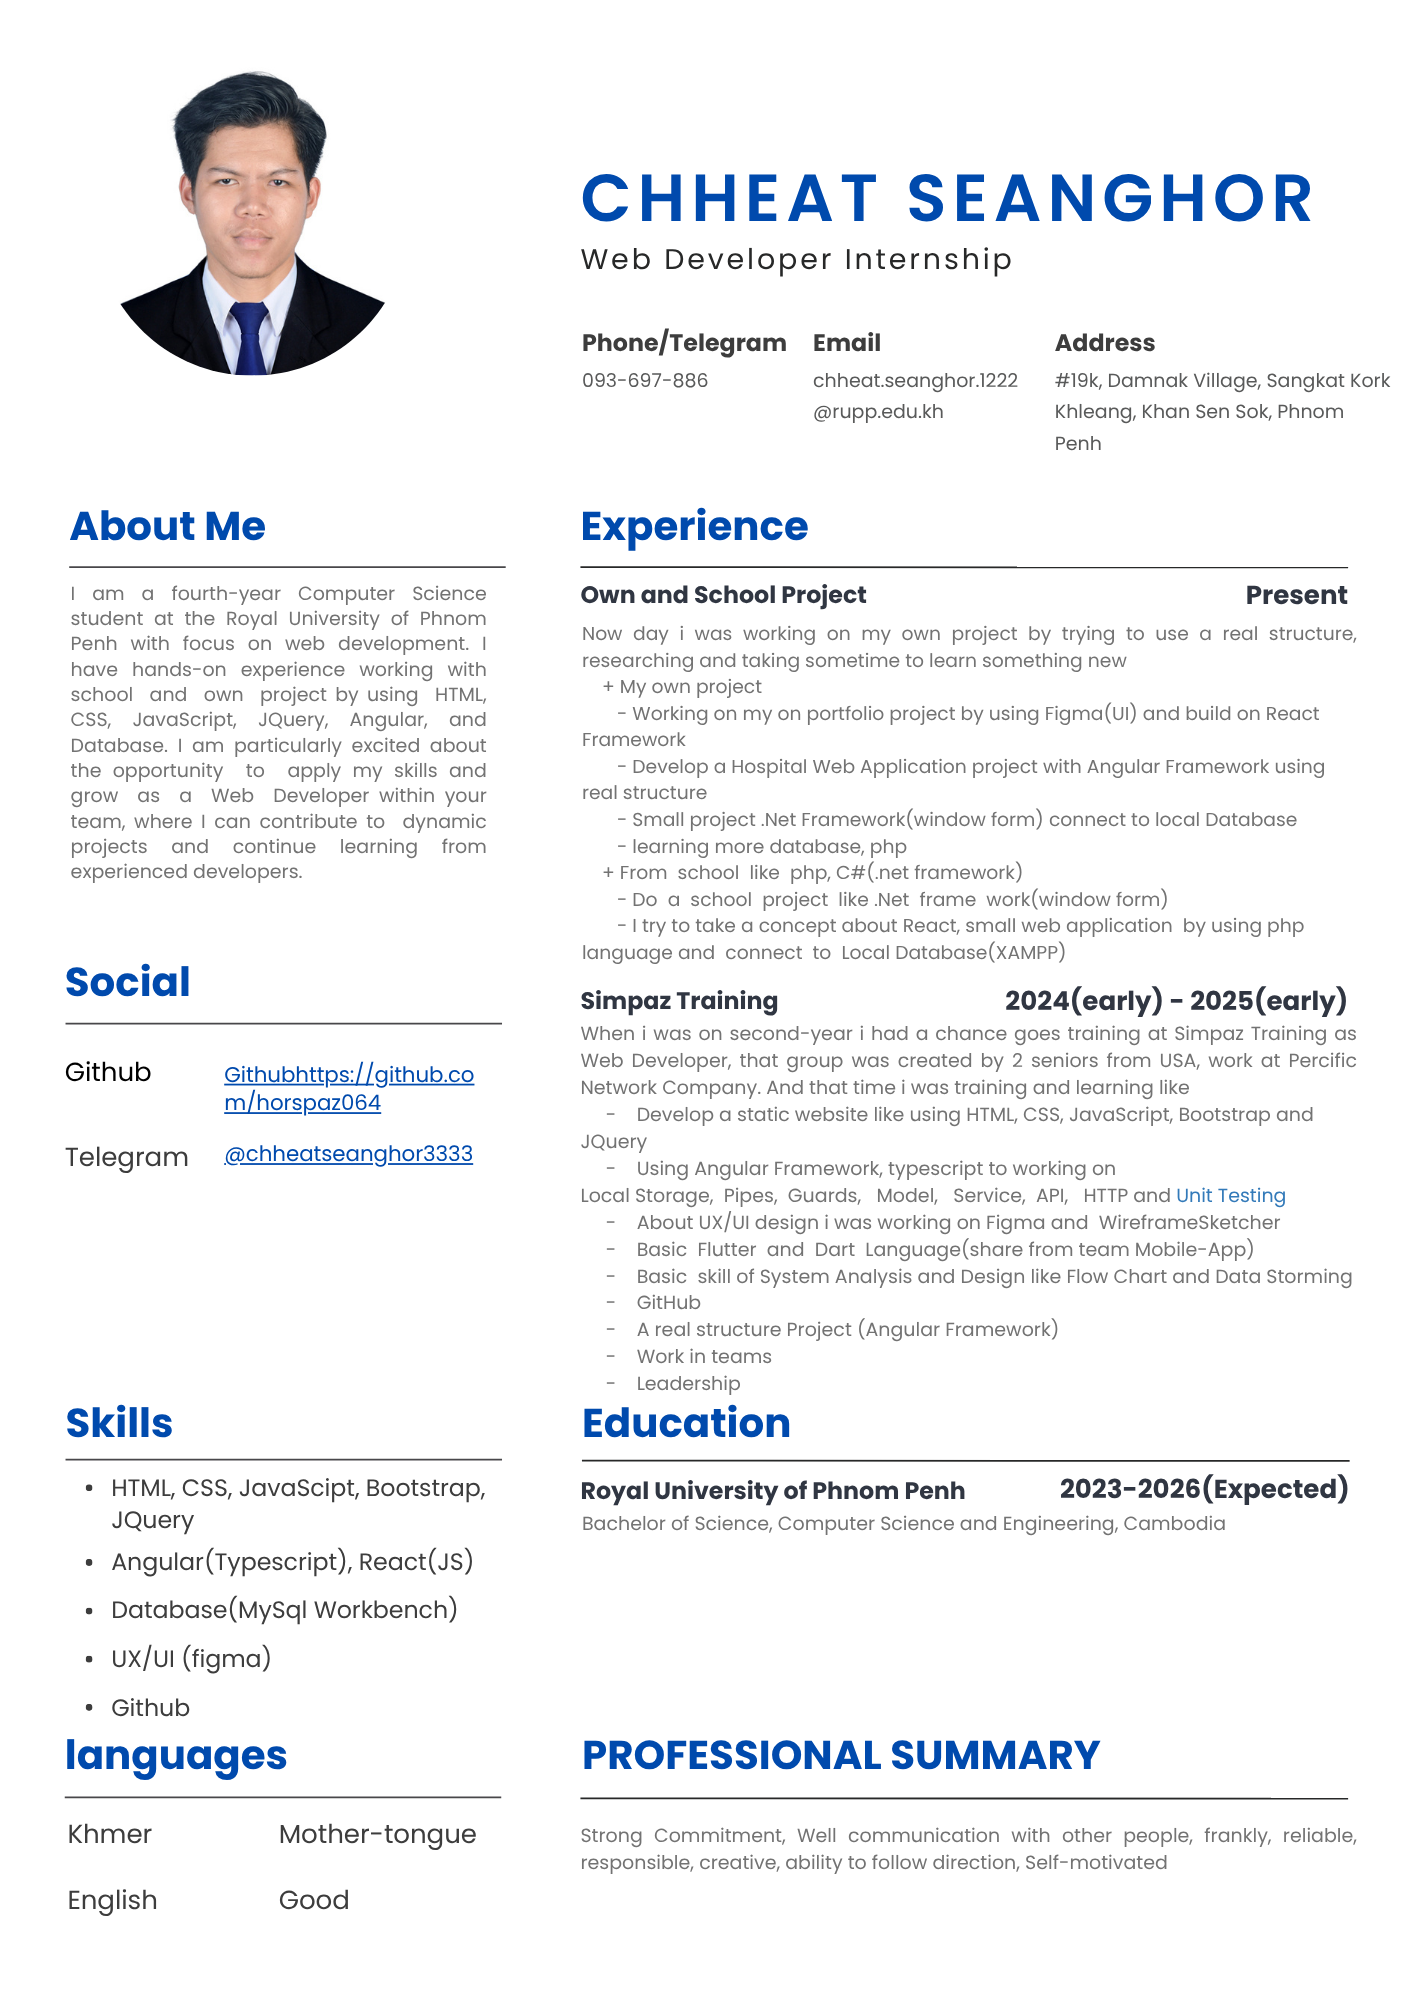
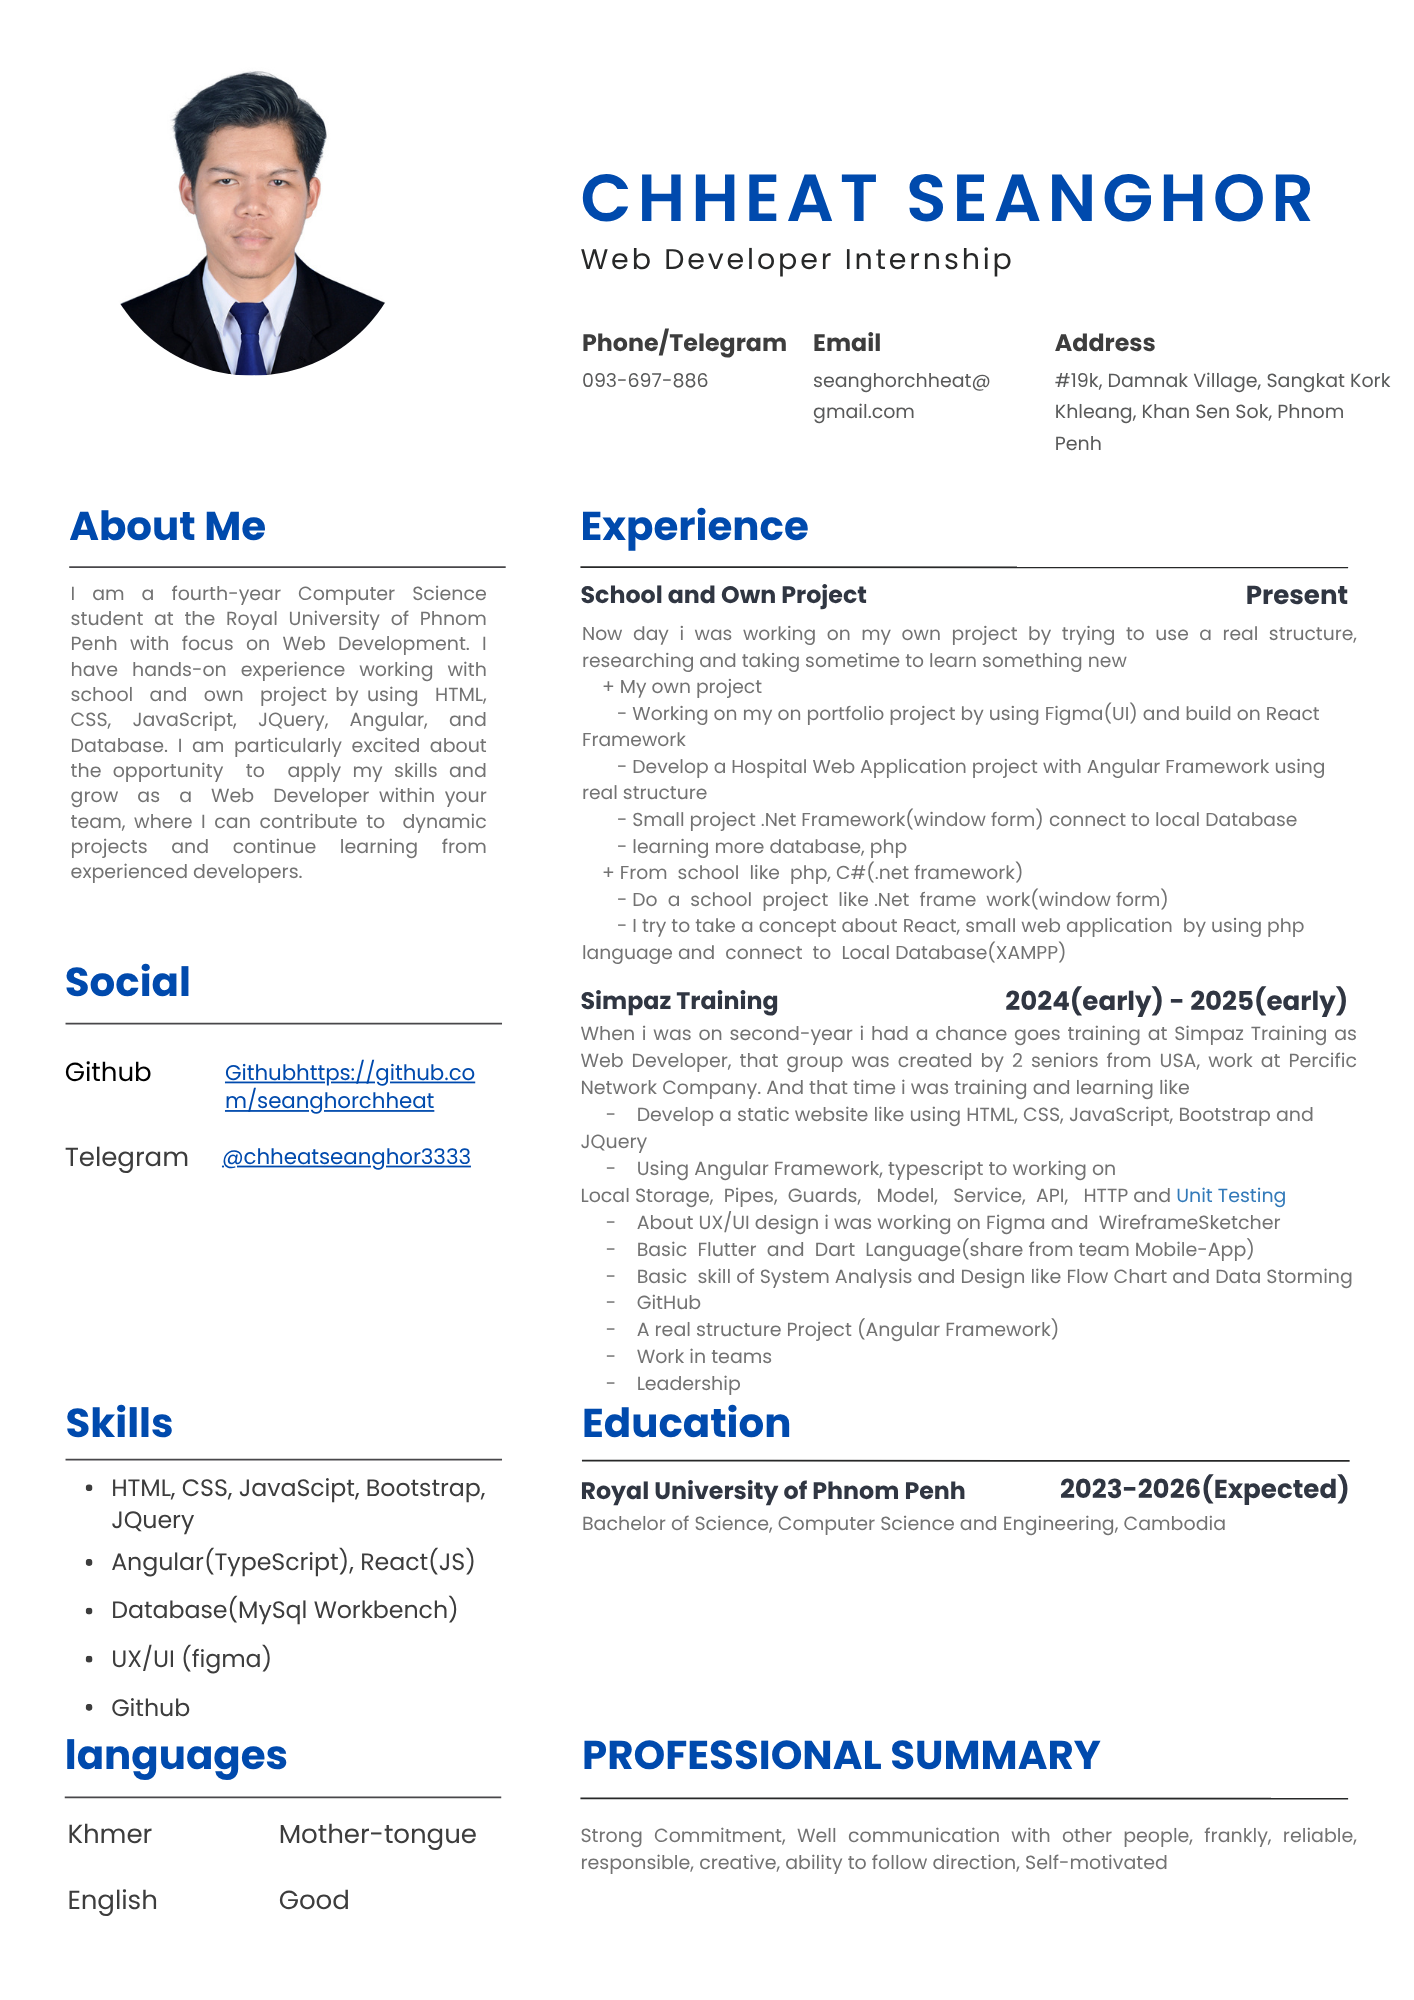
commit change

diff --git a/src/pages/experience/experience.jsx b/src/pages/experience/experience.jsx
@@ -28,6 +28,48 @@ import styles from './experience.module.css';
 const Experience = () => 
 <div className="container">
 <h1 style={{textAlign: 'center', color: '#4AA2D9'}}>My Project</h1>
+
+
+<section id="uxui">
+
+<div className="mt-5">
+<h3>My-Portfolio</h3>
+<p style={{ color: '#555555' }}>This is my portfolio i used to build on React Framework. In this project i was working to focus on : </p>
+<ul style={{display: 'block', listStyle: 'disc'}}>
+  <li style={{ color: '#555555' }}>to lean and know more about React structure and cores</li>
+  <li style={{ color: '#555555' }}>a methods that React provide</li>
+  <li style={{ color: '#555555' }}>working with EmailJS</li>
+  <li style={{ color: '#555555' }}>hosting on real time website using Netlify</li>
+  <li style={{ color: '#555555' }}>responsive, a little animation, ui</li>
+</ul>
+<p style={{ color: '#555555' }}>here is my portfolio ui on Figma: <a href="https://www.figma.com/design/IlQHbL66JkSuq2m3dVQw0u/My--Portfolio?t=al685EipNMb3CEpA-1" target='_blank'>https://www.figma.com/design/My-Portfolio</a></p>
+
+<video  width="100%" loop autoPlay muted playsinline >
+  <source src="/videos/myportfolio.mp4" type="video/mp4" />
+</video>
+</div>
+
+
+<div className="mt-5">
+<h3 >IPhone UI Design</h3>
+<p style={{ color: '#555555'}}>This is my UI Design Project with 3 process
+<ul style={{ display: 'block', listStyle: 'disc'}}>
+  <li>Warframe</li>
+  <li>Design Layout</li>
+  <li>Mockup</li>
+</ul>
+<a href="https://www.figma.com/design/8CfN8fQd32QhBK6OqqWFYn/First-Website-Design?node-id=0-1&t=LTtF6daNvvPtdMMH-1" target='_blank'>https://www.figma.com/design/First-Website-Design</a>
+
+</p>
+<video  width="100%" loop autoPlay muted playsinline>
+  <source src="/videos/iphoneui.mp4" type="video/mp4" />
+</video>
+</div>
+
+</section>
+
+
+
 <section id="website">
 <div className="mt-5">
 <h3>Admin Hospital Project</h3>
@@ -62,6 +104,20 @@ And this project i still continue developing.</p>
 </div>
 
 <div className="mt-5">
+<h3>Todo_app with api</h3>
+<p style={{ color: '#555555' }}>This project i was working on Angular Framework to build a small a todo list web application with API</p>
+<video  width="100%" loop autoPlay muted playsinline>
+  <source src="/videos/todo.mp4" type="video/mp4" />
+</video>
+<div>
+<img width="100%" src={img5}></img>
+</div>
+<div>
+<img width="100%" src={img6}></img>
+</div>
+</div>
+
+<div className="mt-5">
 <h3>Turn Database to API</h3>
 <p style={{ color: '#555555' }}>This is just a small project from school to turn a local database to an API with API key authentication</p>
 <div>
@@ -86,20 +142,6 @@ And this project i still continue developing.</p>
 <p style={{ color: '#555555' }}>In this project i was working on .Net Framework by connect to a local SQL server management</p>
 <div>
 <img width="100%" src={img4}></img>
-</div>
-</div>
-
-<div className="mt-5">
-<h3>Todo_app with api</h3>
-<p style={{ color: '#555555' }}>This project i was working on Angular Framework to build a small a todo list web application with API</p>
-<video  width="100%" loop autoPlay muted playsinline>
-  <source src="/videos/todo.mp4" type="video/mp4" />
-</video>
-<div>
-<img width="100%" src={img5}></img>
-</div>
-<div>
-<img width="100%" src={img6}></img>
 </div>
 </div>
 
@@ -175,43 +217,6 @@ And this project i still continue developing.</p>
 </section>
 
 
-<section id="uxui">
-
-<div className="mt-5">
-<h3>My-Portfolio</h3>
-<p style={{ color: '#555555' }}>This is my portfolio i used to build on React Framework. In this project i was working to focus on : </p>
-<ul style={{display: 'block', listStyle: 'disc'}}>
-  <li style={{ color: '#555555' }}>to lean and know more about React structure and cores</li>
-  <li style={{ color: '#555555' }}>a methods that React provide</li>
-  <li style={{ color: '#555555' }}>working with EmailJS</li>
-  <li style={{ color: '#555555' }}>hosting on real time website using Netlify</li>
-  <li style={{ color: '#555555' }}>responsive, a little animation, ui</li>
-</ul>
-<p style={{ color: '#555555' }}>here is my portfolio ui on Figma: <a href="https://www.figma.com/design/IlQHbL66JkSuq2m3dVQw0u/My--Portfolio?t=al685EipNMb3CEpA-1" target='_blank'>https://www.figma.com/design/My-Portfolio</a></p>
-
-<video  width="100%" loop autoPlay muted playsinline >
-  <source src="/videos/myportfolio.mp4" type="video/mp4" />
-</video>
-</div>
-
-
-<div className="mt-5">
-<h3 >IPhone UI Design</h3>
-<p style={{ color: '#555555'}}>This is my UI Design Project with 3 process
-<ul style={{ display: 'block', listStyle: 'disc'}}>
-  <li>Warframe</li>
-  <li>Design Layout</li>
-  <li>Mockup</li>
-</ul>
-<a href="https://www.figma.com/design/8CfN8fQd32QhBK6OqqWFYn/First-Website-Design?node-id=0-1&t=LTtF6daNvvPtdMMH-1" target='_blank'>https://www.figma.com/design/First-Website-Design</a>
-
-</p>
-<video  width="100%" loop autoPlay muted playsinline>
-  <source src="/videos/iphoneui.mp4" type="video/mp4" />
-</video>
-</div>
-
-</section>
 
 
 <seciton id="mobile">

diff --git a/src/pages/contact/contact.jsx b/src/pages/contact/contact.jsx
@@ -103,7 +103,7 @@ style={{
 
       <div className="col-12 d-flex justify-content-center align-items-center flex-column mt-3">
         <div className="d-flex gap-2">
-          <a href="https://github.com/horspaz064" target="_blank" rel="noopener noreferrer" style={{ color: 'black' }}>
+          <a href="https://github.com/seanghorchheat" target="_blank" rel="noopener noreferrer" style={{ color: 'black' }}>
             <i className="bi bi-github fs-1"></i>
           </a>
           <a href="https://t.me/chheatseanghor3333" target="_blank" rel="noopener noreferrer" style={{ color: 'black' }}>

diff --git a/src/pages/home/home.jsx b/src/pages/home/home.jsx
@@ -119,7 +119,7 @@ const Home = () =>
     <div className="col-12 d-flex justify-content-center align-items-center flex-column mt-3 ">
       <div className="d-flex gap-2">
         <div>
-          <a href="https://github.com/horspaz064" target='_blank' style={{color: 'black'}}>
+          <a href="https://github.com/seanghorchheat" target='_blank' style={{color: 'black'}}>
            <i className="bi bi-github fs-1"></i>
           </a>
         
